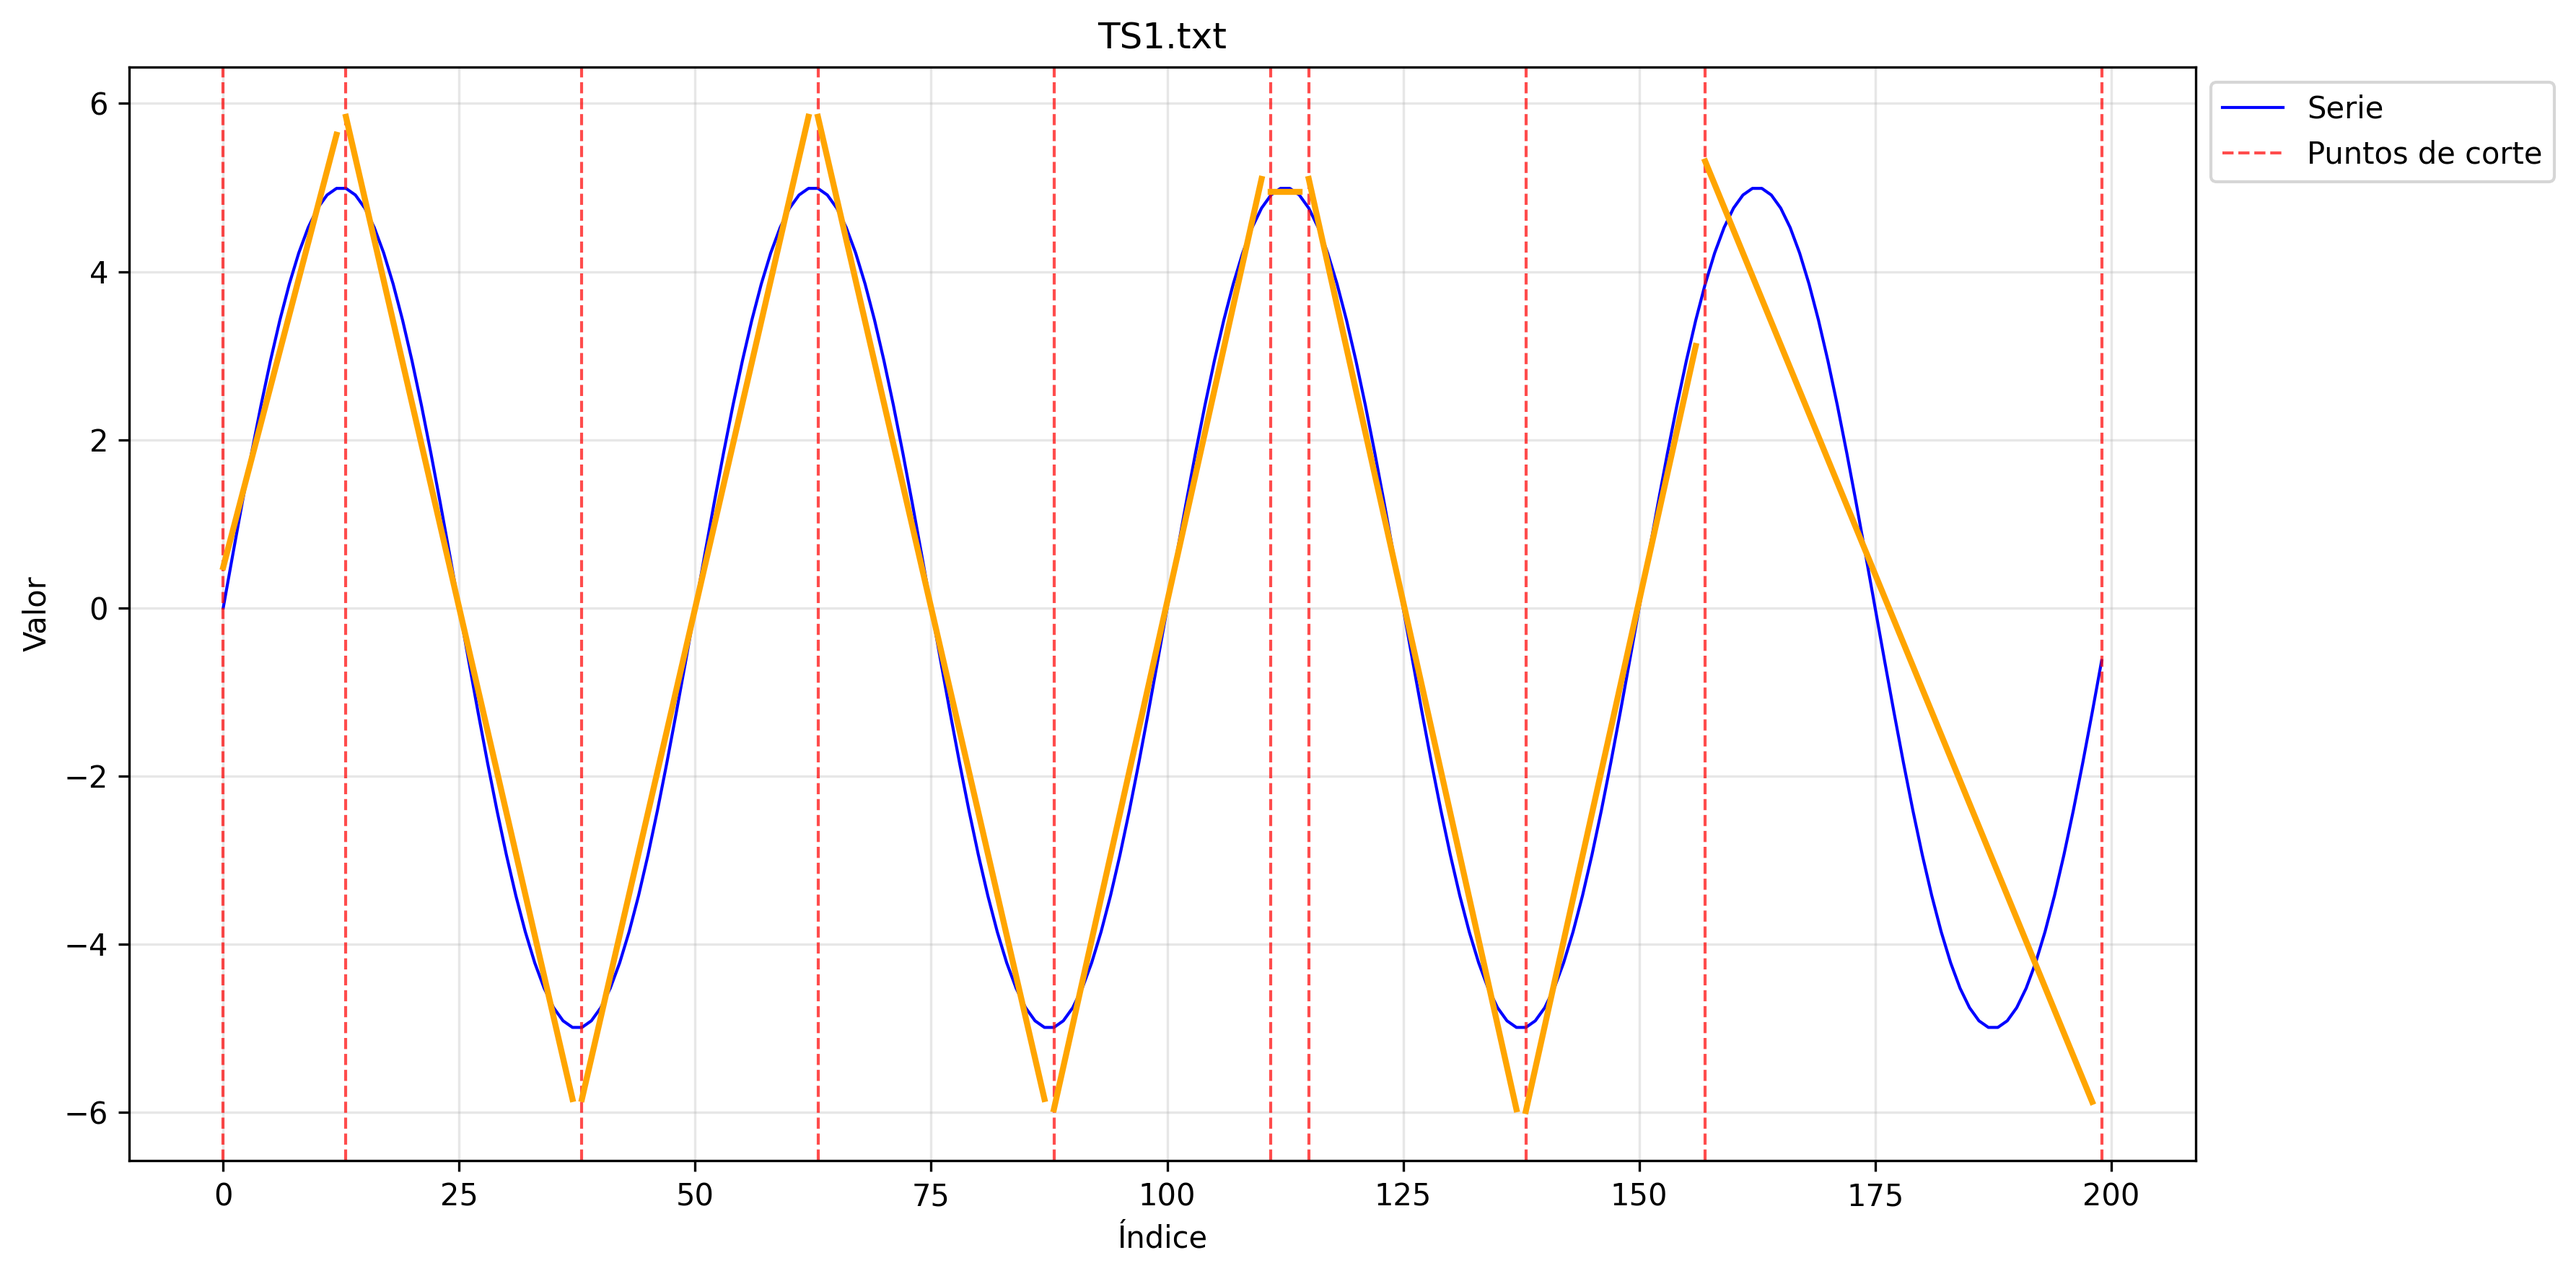
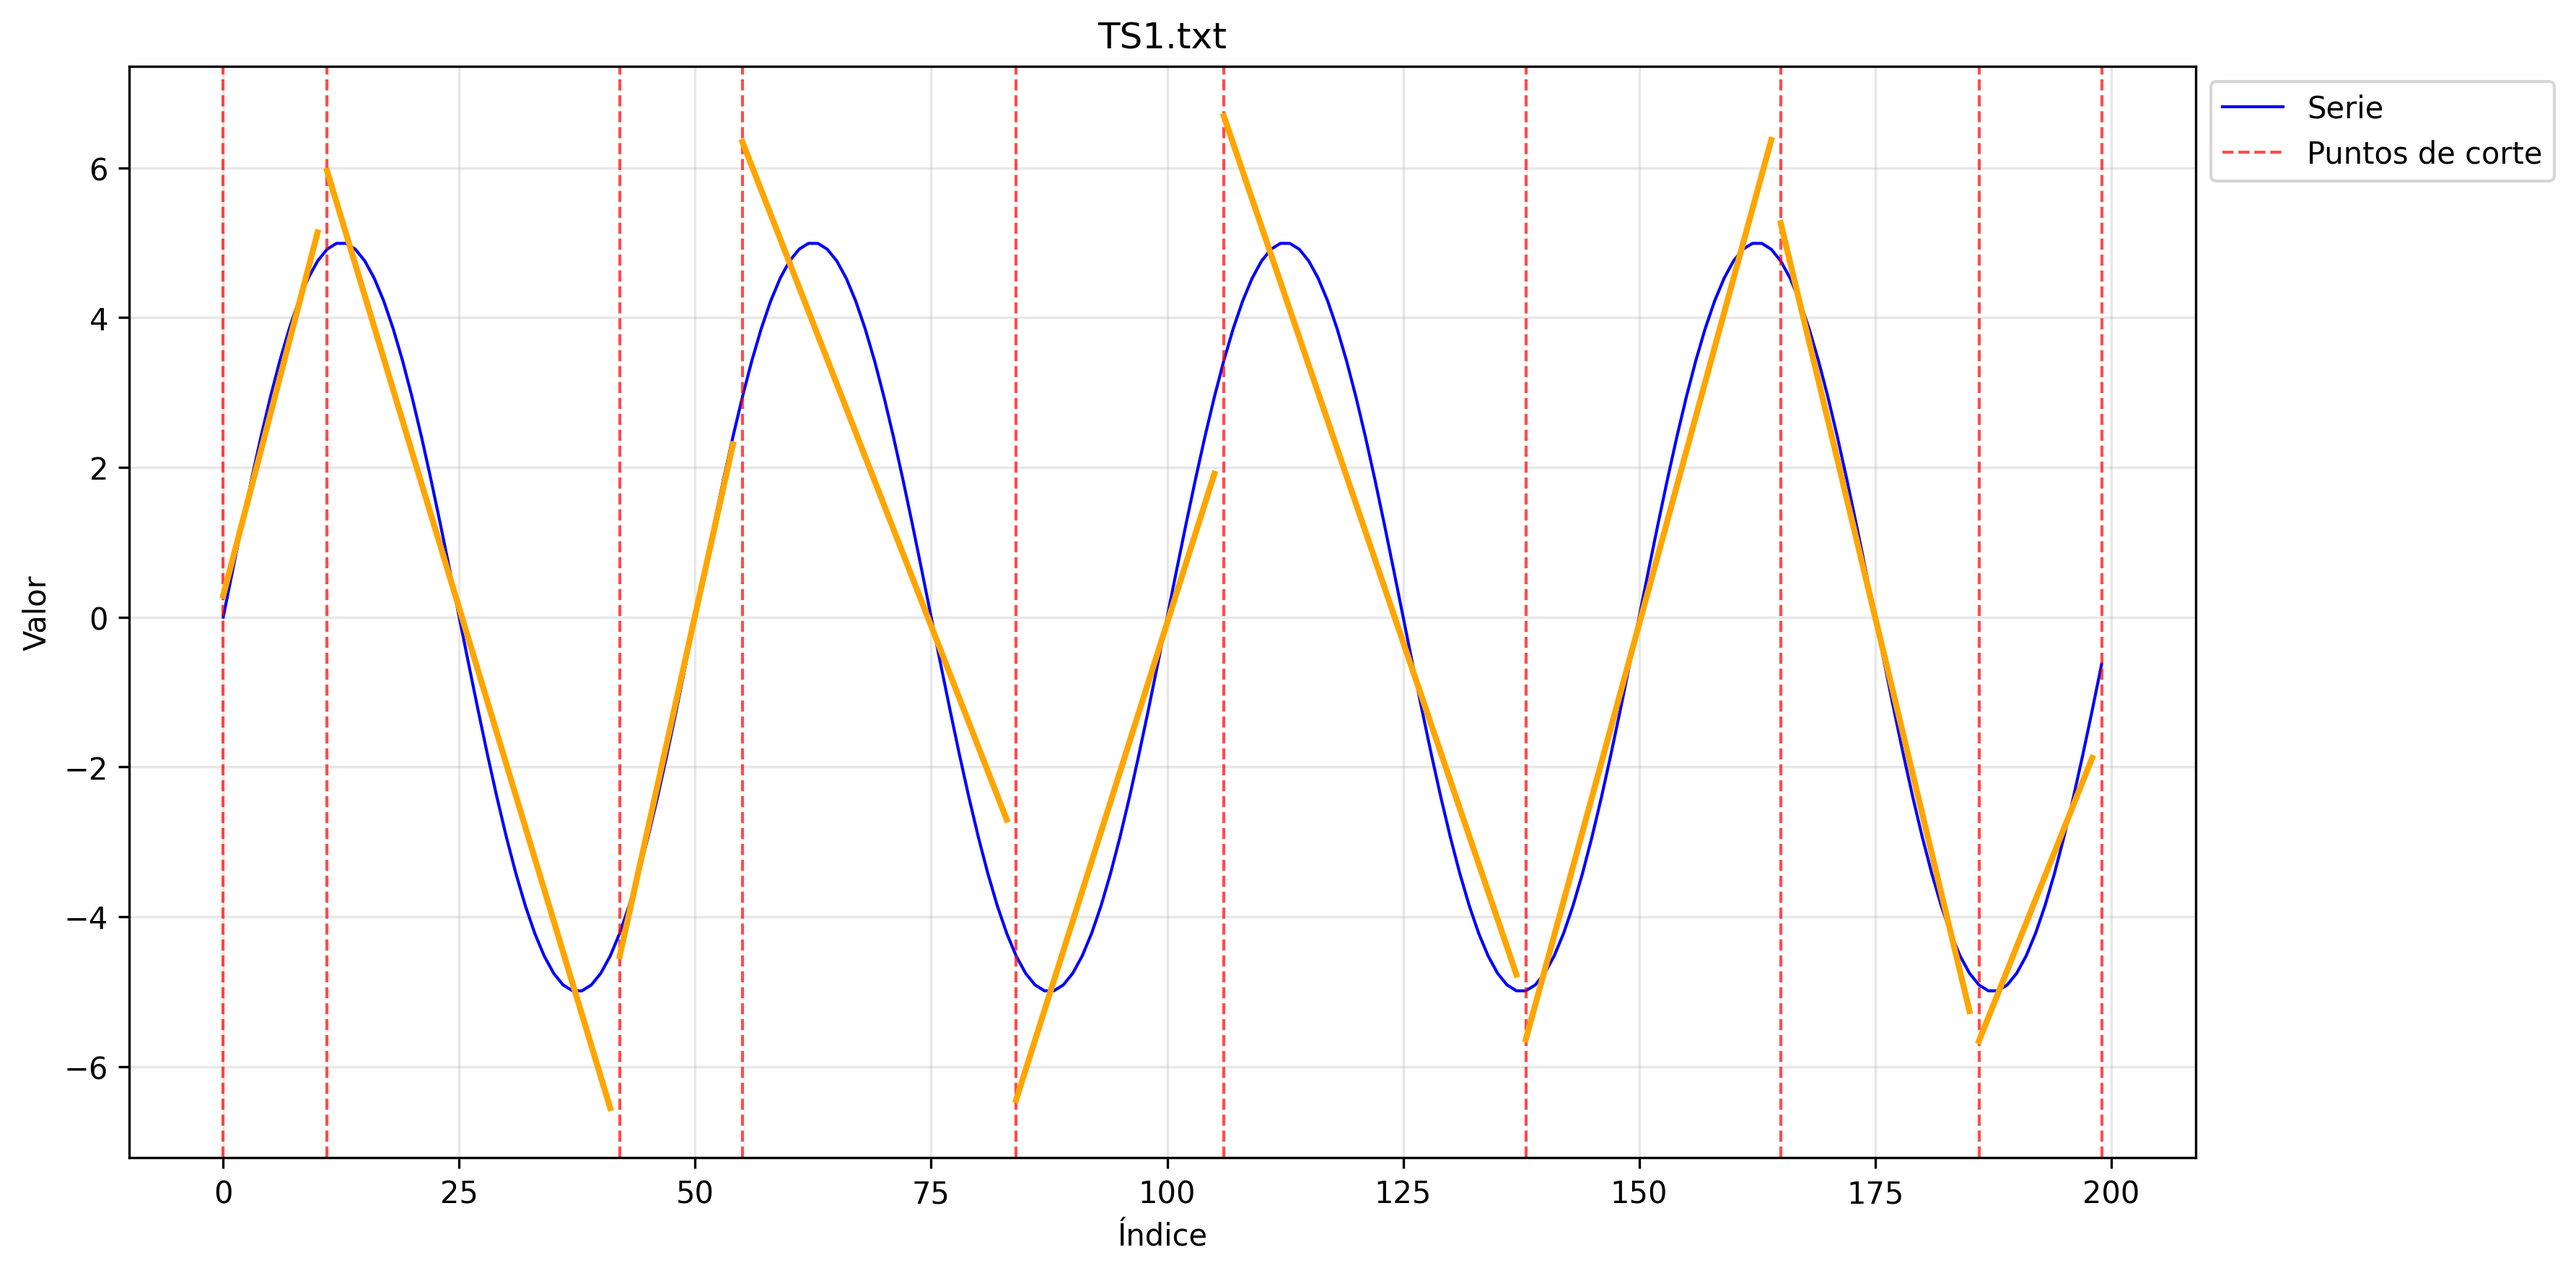
Se ha añadido la funcionalidad de dibujar el resultado en conjunto con la serie temporal al fichero randomSearchStudy.py

diff --git a/randomSearchStudy.py b/randomSearchStudy.py
@@ -23,6 +23,7 @@ def ejecutar_busqueda_alta_precision(algoritmo_func, nombre, series_data, k_segm
     
     paciencia_max = 10000
     mejor_mse = float('inf')
+    mejores_ptos = [] # Guardamos los puntos del mejor resultado
     iters_sin_mejora = 0
     iteracion_total = 0
     historial_mejores = []
@@ -33,7 +34,6 @@ def ejecutar_busqueda_alta_precision(algoritmo_func, nombre, series_data, k_segm
         while iters_sin_mejora < paciencia_max:
             iteracion_total += 1
             
-            # Realizamos una búsqueda (batch pequeño para paralelo)
             if "Paralelo" in nombre:
                 ptos = algoritmo_func(series_data, k_segments, 1, batch=10)
             else:
@@ -41,9 +41,9 @@ def ejecutar_busqueda_alta_precision(algoritmo_func, nombre, series_data, k_segm
             
             mse_actual = me.avgMSE(series_data, ptos)
             
-            # Si hay CUALQUIER mejora, por mínima que sea
             if mse_actual < mejor_mse:
                 mejor_mse = mse_actual
+                mejores_ptos = ptos # Actualizamos los mejores puntos
                 iters_sin_mejora = 0
                 print(f"  [*] ¡Mejora! Iter {iteracion_total}: MSE = {mejor_mse:.6f}          ", end="\r")
             else:
@@ -61,12 +61,25 @@ def ejecutar_busqueda_alta_precision(algoritmo_func, nombre, series_data, k_segm
     print(f"\n\n¡PROCESO FINALIZADO!")
     print(f"Iteraciones totales: {iteracion_total}")
     print(f"Mejor MSE alcanzado: {mejor_mse:.6f}")
-    print(f"Tiempo empleado: {total_time:.2f} segundos")
     
     # Guardar en CSV el resultado final
     me.save_statistics("resultados_rs.csv", nombre + "_MAX", filename, k_segments, iteracion_total, total_time, mejor_mse, 0, 0)
     
-    me.draw_convergence_best(historial_mejores, nombre)
+    while True:
+        print(f"\n--- RESULTADOS ALTA PRECISIÓN ---")
+        print("1. Ver Curva de Convergencia")
+        print("2. Ver mejor segmentación (Gráfica)")
+        print("3. Volver al menú principal")
+        op = input("Selecciona: ")
+        
+        if op == '1':
+            me.draw_convergence_best(historial_mejores, nombre)
+        elif op == '2':
+            print(f"Generando gráfica de la serie con {k_segments} segmentos...")
+            me.draw(series_data, mejores_ptos, filename, title=f"Mejor RS: {mejor_mse:.6f}")
+            print(f"Gráfica guardada en HCOutput/{filename.split('.')[0]}.png")
+        elif op == '3':
+            break
 
 def ejecutar_estudio_completo(algoritmo_func, nombre, series_data, k_segments, filename):
     print("\n--- CONFIGURACIÓN DEL EXPERIMENTO ---")
@@ -78,6 +91,10 @@ def ejecutar_estudio_completo(algoritmo_func, nombre, series_data, k_segments, f
     iteraciones_list = list(range(it_inicio, it_fin + 1, it_paso))
     mses_medios, desviaciones, varianzas, tiempos = [], [], [], []
     matriz_para_cuartiles = []
+    
+    # Variables para capturar el mejor absoluto de todo el estudio
+    mejor_mse_global = float('inf')
+    mejores_ptos_global = []
 
     for max_iters in iteraciones_list:
         mses_actuales, tiempos_actuales = [], []
@@ -89,7 +106,14 @@ def ejecutar_estudio_completo(algoritmo_func, nombre, series_data, k_segments, f
             else:
                 ptos = algoritmo_func(series_data, k_segments, max_iters)
             tiempos_actuales.append(time.time() - start)
-            mses_actuales.append(me.avgMSE(series_data, ptos))
+            
+            mse_val = me.avgMSE(series_data, ptos)
+            mses_actuales.append(mse_val)
+            
+            # Guardamos el mejor absoluto encontrado en cualquier repetición
+            if mse_val < mejor_mse_global:
+                mejor_mse_global = mse_val
+                mejores_ptos_global = ptos
         
         m_mse, v_mse, s_mse = me.calculateErrorMean(mses_actuales), me.calculateVariance(mses_actuales), me.calculateStandardDesviation(mses_actuales)
         m_t = me.calculateErrorMean(tiempos_actuales)
@@ -101,12 +125,25 @@ def ejecutar_estudio_completo(algoritmo_func, nombre, series_data, k_segments, f
 
     while True:
         print(f"\n--- RESULTADOS: {nombre} ---")
-        print("1. MSE Medio + Desviación (Área) | 2. Cuartiles por Rango | 3. Gráfica Varianza/Std | 4. Volver")
+        print("1. MSE Medio + Desviación (Área)")
+        print("2. Frecuencia por Calidad (Cuartiles por Rango)")
+        print("3. Gráfica Varianza/Std")
+        print("4. Ver mejor segmentación encontrada (Gráfica)")
+        print("5. Volver al menú")
         op = input("Selecciona: ")
-        if op == '1': me.draw_single_stat_with_variance(iteraciones_list, mses_medios, desviaciones, "MSE Medio", nombre, filename)
-        elif op == '2': me.analizar_distribucion_cuartiles(matriz_para_cuartiles, nombre, filename)
-        elif op == '3': me.draw_variance_std_study(iteraciones_list, varianzas, desviaciones, nombre, filename)
-        elif op == '4': break
+
+        if op == '1':
+            me.draw_single_stat_with_variance(iteraciones_list, mses_medios, desviaciones, "MSE Medio", nombre, filename)
+        elif op == '2':
+            me.analizar_distribucion_cuartiles(matriz_para_cuartiles, nombre, filename)
+        elif op == '3':
+            me.draw_variance_std_study(iteraciones_list, varianzas, desviaciones, nombre, filename)
+        elif op == '4':
+            print(f"Mejor MSE global del estudio: {mejor_mse_global:.6f}")
+            me.draw(series_data, mejores_ptos_global, filename, title=f"Estudio RS Mejor: {mejor_mse_global:.6f}")
+            print(f"Gráfica guardada en HCOutput/{filename.split('.')[0]}.png")
+        elif op == '5':
+            break
 
 def main():
     while True:
@@ -129,8 +166,7 @@ def main():
                 nom = "RS Serie" if sub == '1' else "RS Paralelo"
                 ejecutar_busqueda_alta_precision(func, nom, series_data, k_segments, filename)
             elif opcion == '4':
-                print("Lanzando comparativa de distribuciones...")
-                # Aquí se puede añadir lógica adicional de comparación si se desea
+                print("Funcionalidad de comparativa global: Se recomienda realizar estudios individuales por ahora.")
 
             input("\nPresiona Enter para continuar...")
 
